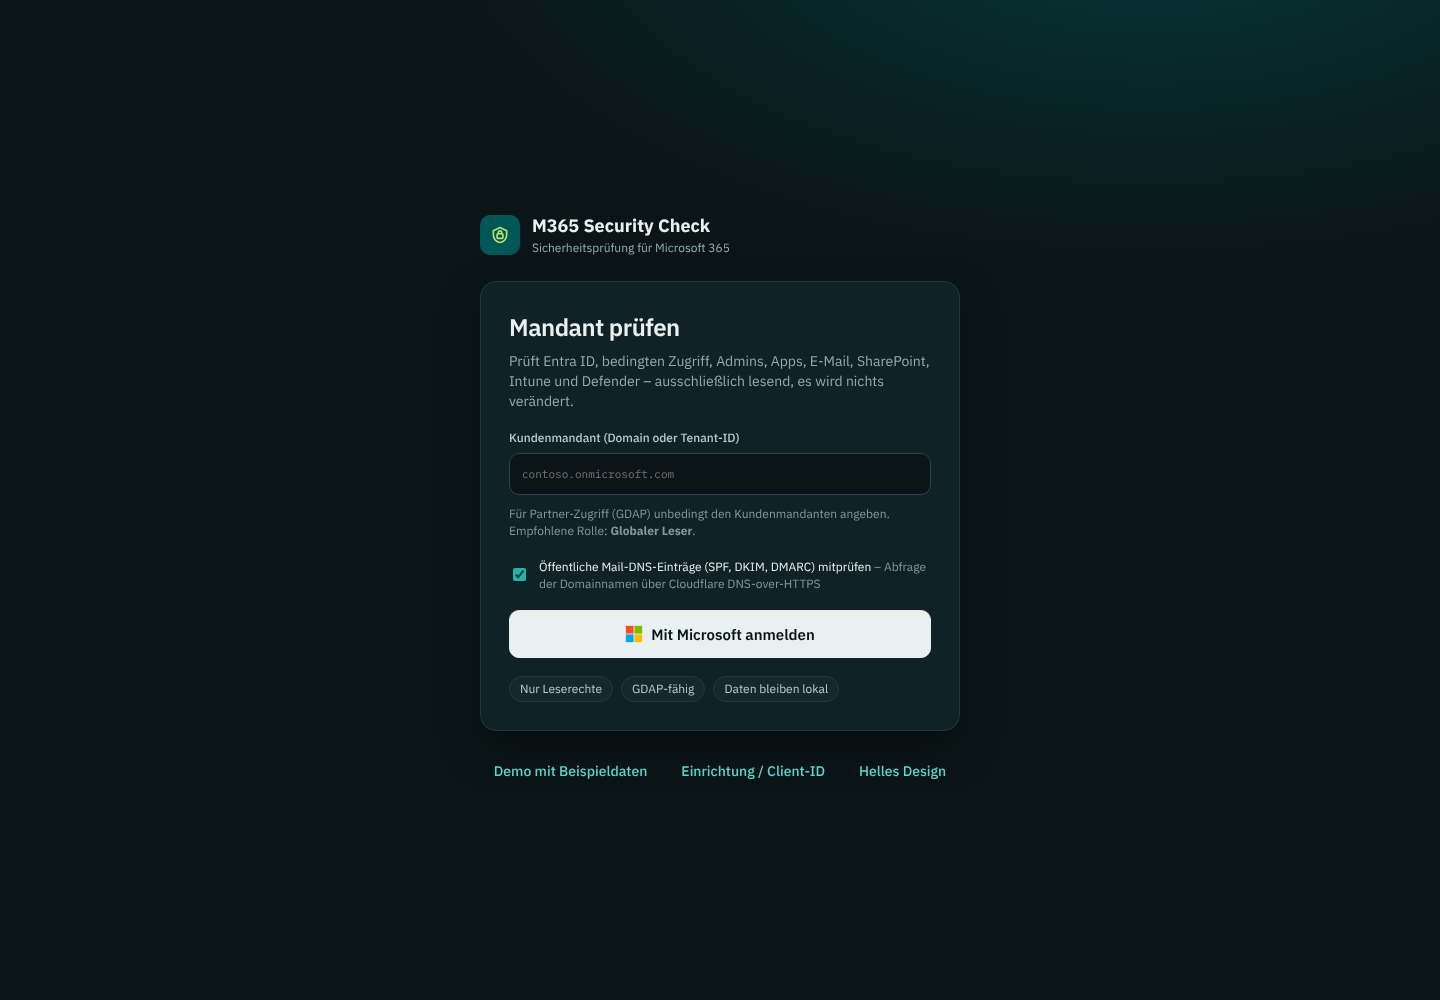
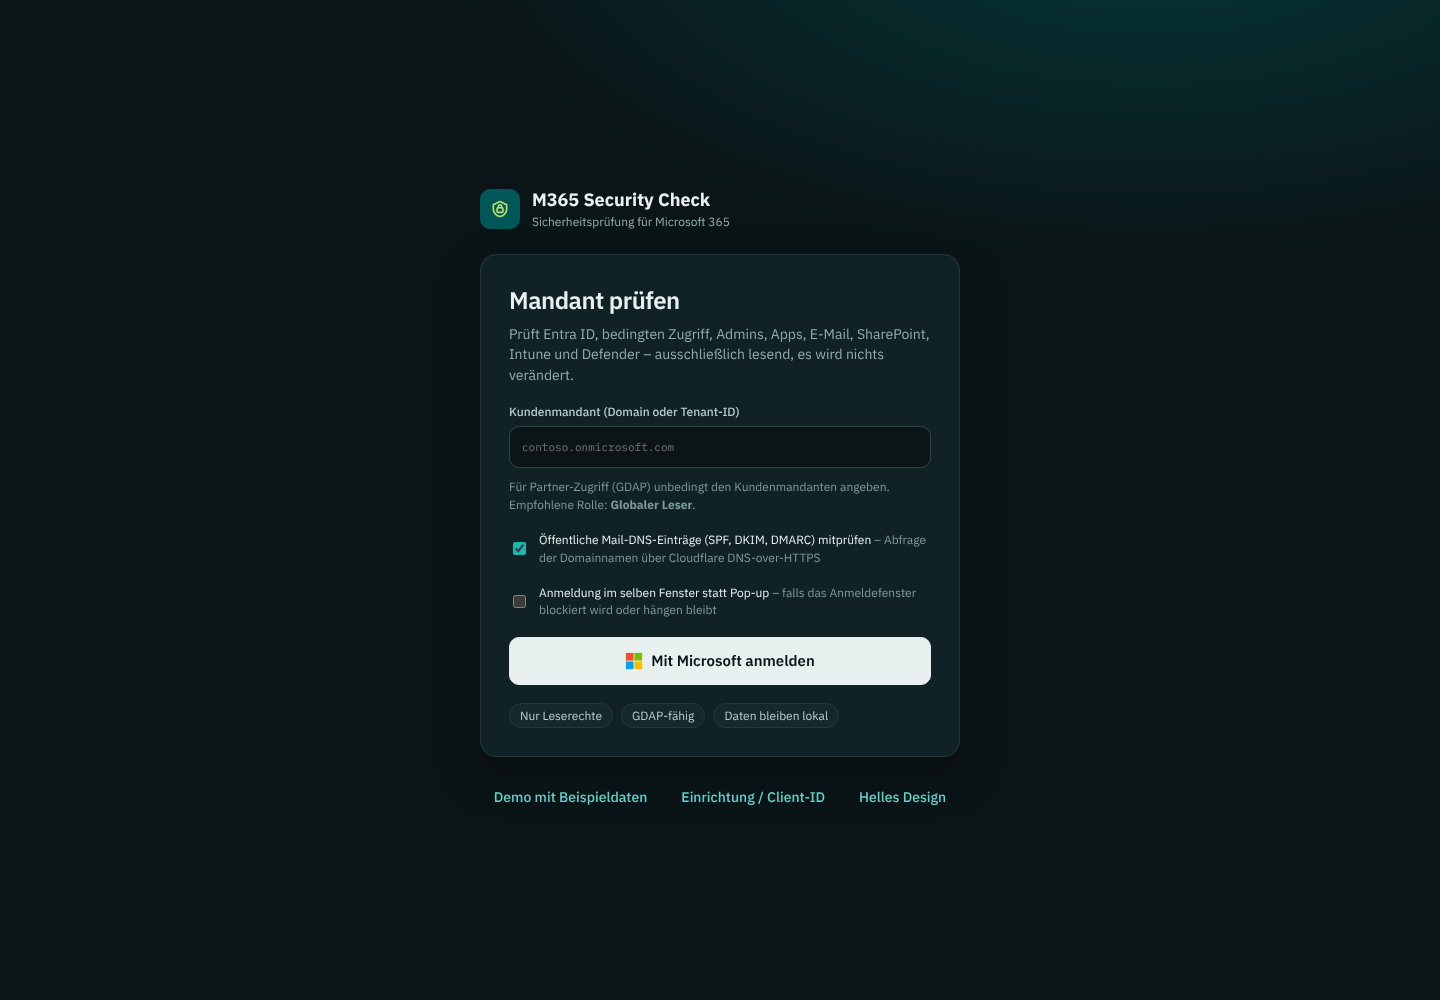
1.0.1: Anmeldung im selben Fenster statt Pop-up
Hilft, wenn das Anmelde-Pop-up blockiert wird oder nach der MFA-Bestätigung
hängen bleibt. Doku: Berechtigungen müssen delegiert sein.

Claude-Session: https://claude.ai/code/session_013mFhNkpGfBQB8krsyysWvw

Changed region(s): [[0.3125, 0.186, 0.6562, 0.806], [0.5938, 0.744, 0.6562, 0.806]]

diff --git a/web/js/app.js b/web/js/app.js
@@ -57,6 +57,7 @@ const state = {
   snapshots: [], compareName: '', compareSnap: null, compareEv: null,
   ex: { format: 'docx', sections: new Set(X.SECTIONS.map((s) => s.key).filter((k) => k !== 'passed')), names: true, partner: lsGet('msc.partner', ''), author: lsGet('msc.author', ''), contact: lsGet('msc.contact', ''), customer: '' },
   dns: lsGet('msc.dns', '1') === '1',
+  loginRedirect: lsGet('msc.loginMode', 'popup') === 'redirect',
   toast: ''
 };
 
@@ -119,6 +120,7 @@ function screenLogin() {
     '<label class="field" for="loginTenant">Kundenmandant (Domain oder Tenant-ID)<input class="input mono" id="loginTenant" placeholder="contoso.onmicrosoft.com" value="' + esc(lsGet('msc.lastTenant', state.cfg.defaultTenant || '')) + '"></label>' +
     '<p class="small faint" style="margin-top:-8px">Für Partner-Zugriff (GDAP) unbedingt den Kundenmandanten angeben. Empfohlene Rolle: <b>Globaler Leser</b>.</p>' +
     '<label class="check" style="background:transparent;padding:0;min-height:0"><input type="checkbox" data-ch="dns"' + (state.dns ? ' checked' : '') + '><span class="small">Öffentliche Mail-DNS-Einträge (SPF, DKIM, DMARC) mitprüfen <span class="faint">– Abfrage der Domainnamen über Cloudflare DNS-over-HTTPS</span></span></label>' +
+    '<label class="check" style="background:transparent;padding:0;min-height:0"><input type="checkbox" data-ch="loginRedirect"' + (state.loginRedirect ? ' checked' : '') + '><span class="small">Anmeldung im selben Fenster statt Pop-up <span class="faint">– falls das Anmeldefenster blockiert wird oder hängen bleibt</span></span></label>' +
     (acc ? '<button class="btn primary lg" data-act="continue">Als ' + esc(acc.username) + ' fortfahren</button>' : '') +
     '<button class="btn ms lg" data-act="login" ' + (state.busy ? 'disabled' : '') + '>' + msLogo + (acc ? 'Mit anderem Konto anmelden' : 'Mit Microsoft anmelden') + '</button>' +
     (state.error ? '<div class="err">' + state.error + '</div>' : '') +
@@ -513,7 +515,9 @@ const ACTIONS = {
     lsSet('msc.lastTenant', tenant);
     state.error = ''; state.busy = true; render();
     try {
+      G.setLoginMode(state.loginRedirect ? 'redirect' : 'popup');
       await G.initAuth(state.cfg.clientId, tenant);
+      if (state.loginRedirect) { try { sessionStorage.setItem('msc.autoscan', '1'); } catch (e) { /* */ } }
       state.account = await G.login();
       state.busy = false;
       await startScan();
@@ -616,6 +620,7 @@ const CHANGES = {
   sourceF(el) { state.sourceF = el.value; state.selId = null; render(); },
   sevF(el) { state.sevF = el.value; state.selId = null; render(); },
   dns(el) { state.dns = el.checked; lsSet('msc.dns', el.checked ? '1' : '0'); },
+  loginRedirect(el) { state.loginRedirect = el.checked; lsSet('msc.loginMode', el.checked ? 'redirect' : 'popup'); G.setLoginMode(el.checked ? 'redirect' : 'popup'); },
   names(el) { state.ex.names = el.checked; },
   sec(el) { if (el.checked) state.ex.sections.add(el.dataset.key); else state.ex.sections.delete(el.dataset.key); render(); },
   importFile(el) {
@@ -657,7 +662,14 @@ document.addEventListener('keydown', (e) => {
   const params = new URLSearchParams(location.search);
   if (params.has('demo')) { startDemo(); if (params.get('view')) { state.view = params.get('view'); render(); } return; }
   if (!state.cfg.clientId) { state.screen = 'setup'; render(); return; }
+  G.setLoginMode(state.loginRedirect ? 'redirect' : 'popup');
+  let auto = false;
+  try { auto = sessionStorage.getItem('msc.autoscan') === '1'; sessionStorage.removeItem('msc.autoscan'); } catch (e) { /* */ }
   try { state.account = await G.initAuth(state.cfg.clientId, lsGet('msc.lastTenant', state.cfg.defaultTenant || '')); } catch (e) { state.account = null; }
+  const rErr = G.takeRedirectError();
+  if (location.hash || location.search) history.replaceState(null, '', '/');
+  if (rErr) { state.error = explainLoginError(rErr); state.screen = 'login'; render(); return; }
+  if (auto && state.account) { await startScan(); return; }
   state.screen = 'login';
   render();
 })();

diff --git a/web/js/graph.js b/web/js/graph.js
@@ -16,12 +16,28 @@ export async function initAuth(clientId, tenant) {
     system: { allowNativeBroker: false }
   });
   await pca.initialize();
+  // Rückkehr von einer Anmeldung per Weiterleitung (ohne Pop-up) verarbeiten
+  let redirected = null;
+  try { redirected = await pca.handleRedirectPromise(); } catch (e) { redirectError = e; }
+  if (redirected && redirected.account) { account = redirected.account; pca.setActiveAccount(account); return account; }
   const accounts = pca.getAllAccounts();
   account = accounts.length ? accounts[0] : null;
   return account;
 }
 
+let redirectError = null;
+// Fehler einer Anmeldung per Weiterleitung (einmalig abholen)
+export function takeRedirectError() { const e = redirectError; redirectError = null; return e; }
+
+// Anmeldeart: 'popup' (Standard) oder 'redirect' (im selben Fenster – hilft, wenn Pop-ups blockiert werden oder hängen)
+export let loginMode = 'popup';
+export function setLoginMode(m) { loginMode = m === 'redirect' ? 'redirect' : 'popup'; }
+
 export async function login() {
+  if (loginMode === 'redirect') {
+    await pca.loginRedirect({ scopes: SCOPES, prompt: 'select_account' });
+    return new Promise(() => {}); // Seite wird verlassen
+  }
   const res = await pca.loginPopup({ scopes: SCOPES, prompt: 'select_account' });
   account = res.account;
   pca.setActiveAccount(account);
@@ -44,6 +60,7 @@ async function token() {
     const r = await pca.acquireTokenSilent({ scopes: SCOPES, account });
     return r.accessToken;
   } catch (e) {
+    if (loginMode === 'redirect') { await pca.acquireTokenRedirect({ scopes: SCOPES, account }); return new Promise(() => {}); }
     const r = await pca.acquireTokenPopup({ scopes: SCOPES, account });
     return r.accessToken;
   }

diff --git a/web/redirect.html b/web/redirect.html
@@ -1,4 +1,5 @@
 <!doctype html>
 <html lang="de"><head><meta charset="utf-8"><title>Anmeldung …</title>
 <style>body{font-family:system-ui,sans-serif;background:#0B1517;color:#E8F1F0;display:flex;align-items:center;justify-content:center;height:100vh;margin:0}</style>
+<script src="redirect.js"></script>
 </head><body><p>Anmeldung wird abgeschlossen …</p></body></html>

diff --git a/web/redirect.js b/web/redirect.js
@@ -1,0 +1,3 @@
+// Pop-up-Anmeldung: Das aufrufende Fenster liest die Antwort selbst aus – nichts tun.
+// Anmeldung per Weiterleitung (kein Pop-up): Antwort an die App weiterreichen, die sie mit MSAL verarbeitet.
+if (!window.opener) location.replace('/' + location.search + location.hash);

diff --git a/main.go b/main.go
@@ -35,7 +35,7 @@ import (
 var webFS embed.FS
 
 // appVersion wird vom Release-Workflow gelesen: Erhöhen und auf main pushen veröffentlicht ein neues Release.
-const appVersion = "1.0.0"
+const appVersion = "1.0.1"
 
 type Config struct {
 	ClientID      string `json:"clientId"`

diff --git a/docs/fehlerbehebung.md b/docs/fehlerbehebung.md
@@ -9,7 +9,9 @@
 | `AADSTS700016` – Anwendung nicht gefunden | App nicht mehrinstanzenfähig oder Client-ID falsch | Unter *Authentifizierung → Unterstützte Kontotypen* „Mehrinstanzenfähig“ wählen, Client-ID prüfen |
 | `AADSTS65001` / „Administratorgenehmigung erforderlich“ | Zustimmung im Kundenmandanten fehlt oder ist nach dem Ergänzen von Berechtigungen veraltet | Zustimmungslink verwenden (wird in der Fehlermeldung angezeigt) oder Admin des Kunden zustimmen lassen |
 | `AADSTS50020` / `AADSTS90072` – Benutzer existiert nicht im Mandanten | falscher Mandant oder GDAP-Beziehung fehlt | Kundenmandanten auf der Anmeldeseite eintragen; GDAP-Beziehung und Rollen prüfen |
-| Anmeldefenster öffnet nicht | Pop-up-Blocker | Pop-ups für `localhost` erlauben |
+| Anmeldefenster öffnet nicht | Pop-up-Blocker | Pop-ups für `localhost` erlauben oder auf der Anmeldeseite **„Anmeldung im selben Fenster statt Pop-up“** aktivieren |
+| Anmeldefenster hängt nach der MFA-Bestätigung bzw. der Zustimmungsdialog erscheint nicht | Pop-up erhält die Authenticator-Bestätigung nicht (z. B. in eingebetteten Browsern) | Pop-up schließen, **„Anmeldung im selben Fenster statt Pop-up“** aktivieren und erneut anmelden |
+| Viele Bereiche „Keine Berechtigung (403)“, obwohl zugestimmt wurde | Berechtigung als *Anwendungsberechtigung* statt *delegiert* eingetragen | In der App-Registrierung prüfen, dass in der Spalte *Typ* überall „Delegiert“ steht; falsche Einträge entfernen, delegiert hinzufügen, erneut zustimmen |
 
 ## Prüfung
 

diff --git a/docs/einrichtung.md b/docs/einrichtung.md
@@ -41,6 +41,8 @@ Ein Client-Geheimnis oder Zertifikat wird **nicht** benötigt – die App ist ei
 | `DeviceManagementManagedDevices.Read.All` | Gerätezusammenfassung (Konformität, Verschlüsselung, Check-in) |
 | `BackupRestore-Configuration.Read.All` | Status von Microsoft 365 Backup (optional) |
 
+> Wichtig: Alle Berechtigungen als **Delegierte Berechtigungen** hinzufügen, nicht als *Anwendungsberechtigungen*. In der Liste muss in der Spalte *Typ* überall „Delegiert“ stehen – sonst fehlen die Rechte bei der Anmeldung und es entsteht unnötig eine weitreichende App-Berechtigung.
+
 Alle Berechtigungen sind **nur lesend**. Das Programm fordert beim Login den Bereich `https://graph.microsoft.com/.default` an, also genau die hier eingetragenen und zugestimmten Rechte. Fehlt eine Berechtigung, läuft die Prüfung trotzdem – die betroffenen Punkte erscheinen als „nicht prüfbar“.
 
 ## 4. Client-ID eintragen

diff --git a/CHANGELOG.md b/CHANGELOG.md
@@ -1,5 +1,10 @@
 # Änderungen
 
+## 1.0.1 (2026-11-26)
+
+- Neue Option „Anmeldung im selben Fenster statt Pop-up“: hilft, wenn das Anmeldefenster blockiert wird oder bei der MFA-Bestätigung hängen bleibt (z. B. in eingebetteten Browsern)
+- Dokumentation: Hinweis, dass alle Graph-Berechtigungen als *delegiert* (nicht als Anwendungsberechtigung) eingetragen werden müssen
+
 ## 1.0.0 (2026-11-26)
 
 Erste Version.
